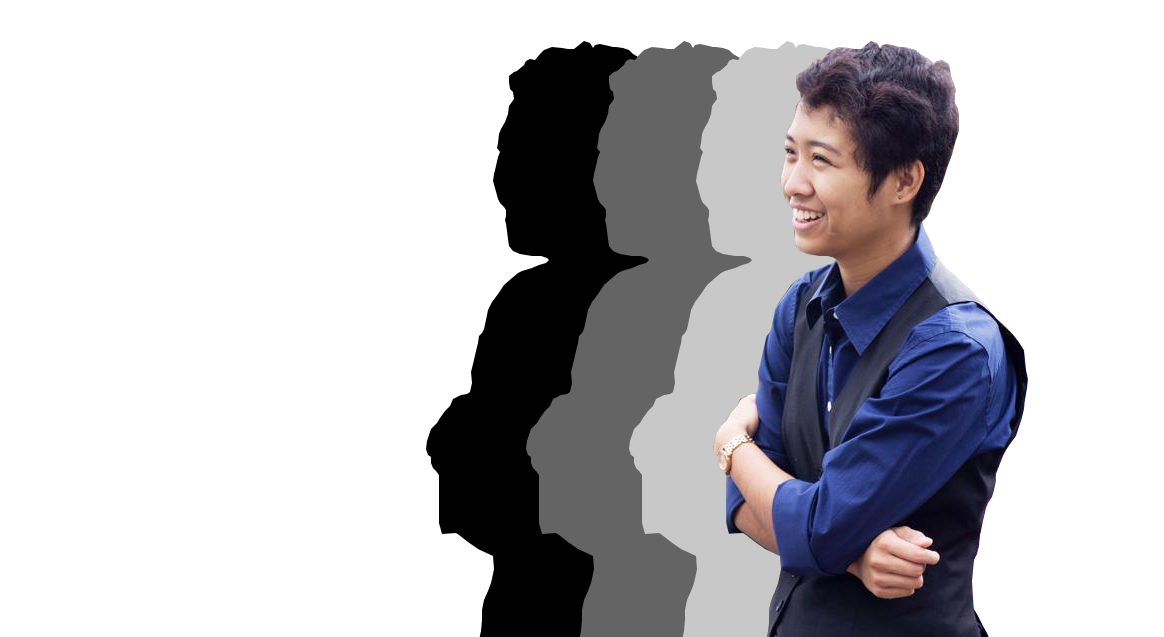
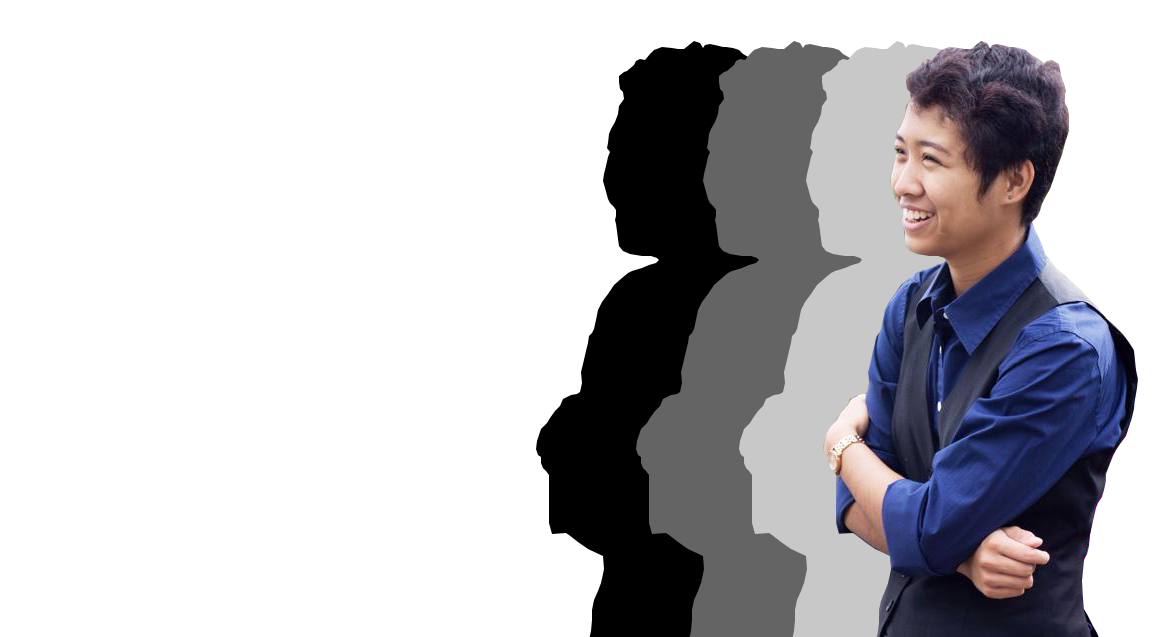
fonts and background esp home page

diff --git a/about.html b/about.html
@@ -61,8 +61,12 @@
 
     <div class="jumbotron">
       <div class="container">
-	<img src="assets/images/VR.jpg">
-        <p>Hey there! My name is Jorenne Flores. I'm a Cognitive Science major specializing in Human-Computer Interaction and minoring in Computer Science at U.C. San Diego. I'm expecting to graduate in June 2018. I was born in the Philippines, raised in the Bay Area, and now reside in San Diego. I'm interested in user experience, computer graphics, design, animation, and web development, and I'm currently looking for internship opportunities in the Bay Area or San Diego that are focusing on those areas. My hobbies include dancing, film making, and watching musicals. I also love learning new skills and creating things with them!</p>
+	     <img src="assets/images/VR.jpg">
+        <div class="text">
+        <p>Hey there! My name is Jorenne Flores. I was born in the Philippines, raised in the Bay Area, and now reside in San Diego.
+        <br><br>I'm a Cognitive Science major specializing in Human-Computer Interaction and minoring in Computer Science at U.C. San Diego. I expect to graduate in June 2018. I'm interested in user experience, design, computer graphics, animation, and web development, and I'm currently looking for internship opportunities in the Bay Area or San Diego that are focusing on those areas. My other hobbies include dancing, film making, and watching musicals. I also love learning new skills and creating things with them!
+        <br><br>Check out some of my links on the left! You can also contact me through email at <a href="mailto:jjflores@ucsd.edu">jjflores@ucsd.edu</a>. Thanks for visiting!</p>
+        </div>
       </div>
     </div> 
 

diff --git a/assets/css/about.css b/assets/css/about.css
@@ -16,19 +16,19 @@
   max-width: 75%;
   position: absolute;
   left: 250px; /* 300px for center */
-  background-color: hsla(0, 0%, 25%, 0.0); /* 4th param is opacity */
+  background-color: hsla(0, 0%, 100%, 0.6); /* 4th param is opacity */
 }
 
 .jumbotron img {
   float: left;
   overflow: auto;
-  margin: 5%;
+  margin: 4%;
   width: 25%;
   height: 25%;
 }
 
 .jumbotron p {
-  margin: 5%;
+  margin: 4%;
+  font-family: "Lato", sans-serif;
   color: #5a5a5a;
-  font-family: Courier;
 }

diff --git a/assets/css/style.css b/assets/css/style.css
@@ -11,7 +11,7 @@
 .menu .nav {
   color: #5a5a5a;
   font-size: 24px;
-  font-family: Courier;
+  font-family: "Lato", sans-serif;
   text-decoration: none;
   display: inline-block;
 }
@@ -101,10 +101,18 @@
 .jumbotron .container {
   position: fixed;
   top: 210px;
-  left: 500px;
-  filter: gray;
+  left: -75px;
+  text-align: center;
+  color: #5a5a5a;
+  /*
+  filter: gray; 
   filter: grayscale(1);
   -webkit-filter: grayscale(1);
+  */
+}
+
+#name {
+  font-size: 48px;
 }
 
 

diff --git a/assets/css/projects.css b/assets/css/projects.css
@@ -17,19 +17,19 @@
   margin-bottom: 2%;
   position: absolute;
   left: 250px; /* 300px for center */
-  background-color: hsla(0, 0%, 25%, 0.0);
+  background-color: hsla(0, 0%, 100%, 0.6);
 }
 
 .jumbotron h2 {
   color: #5a5a5a;
-  font-family: Courier;
+  font-family: "Lato", sans-serif;
 }
 
 .jumbotron .text {
   float: left;
   margin: 5%;
   color: #5a5a5a;
-  font-family: Courier;
+  font-family: "Lato", sans-serif;
   width: 60%;
   height: 10px;
 }

diff --git a/index.html b/index.html
@@ -60,7 +60,8 @@
 
     <div class="jumbotron">
       <div class="container">
-        <img src="assets/images/title.png">
+        <h1 id="name">Jorenne Flores</h1>
+        <h3 id="titles">Designer | Developer | Creator</h3>
       </div>
     </div> 
 

diff --git a/assets/css/menu.css b/assets/css/menu.css
@@ -11,7 +11,7 @@
 .menu .nav {
   color: #5a5a5a;
   font-size: 24px;
-  font-family: Courier;
+  font-family: "Lato", sans-serif;
   text-decoration: none;
   display: inline-block;
 }
